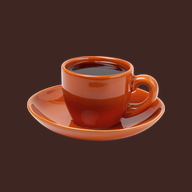
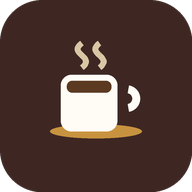
Add files via upload

diff --git a/index.html b/index.html
@@ -2,21 +2,24 @@
 <html lang="es">
 <head>
 <meta charset="UTF-8" />
-<meta name="viewport" content="width=device-width, initial-scale=1, maximum-scale=1, viewport-fit=cover" />
+<meta name="viewport" content="width=device-width, initial-scale=1, viewport-fit=cover" />
 <title>Control Cafetería</title>
+<meta name="description" content="Sistema de punto de venta para cafetería. Funciona sin internet en teléfono, tablet y computadora." />
 <meta name="theme-color" content="#3E2723" />
 <link rel="manifest" href="manifest.json" />
-<link rel="icon" href="icons/icon-192.png" />
-<link rel="apple-touch-icon" href="icons/icon-192.png" />
+<link rel="icon" type="image/png" sizes="192x192" href="icons/icon-192.png" />
+<link rel="apple-touch-icon" href="icons/apple-touch-icon.png" />
+<meta name="mobile-web-app-capable" content="yes" />
 <meta name="apple-mobile-web-app-capable" content="yes" />
 <meta name="apple-mobile-web-app-status-bar-style" content="black-translucent" />
+<meta name="apple-mobile-web-app-title" content="Cafetería" />
 <link rel="stylesheet" href="style.css" />
 </head>
 <body>
 
 <header class="topbar">
   <div class="marca">
-    <span class="marca-icono">☕</span>
+    <svg class="icono-marca" viewBox="0 0 24 24" fill="none" stroke="currentColor" stroke-width="2" stroke-linecap="round" stroke-linejoin="round" aria-hidden="true"><path d="M17 8h1a4 4 0 1 1 0 8h-1"/><path d="M3 8h14v9a4 4 0 0 1-4 4H7a4 4 0 0 1-4-4Z"/><line x1="6" y1="2" x2="6" y2="4"/><line x1="10" y1="2" x2="10" y2="4"/><line x1="14" y1="2" x2="14" y2="4"/></svg>
     <span class="marca-texto">Control Cafetería</span>
   </div>
   <div class="reloj" id="reloj"></div>
@@ -59,15 +62,24 @@
   <!-- ============ VENTA ============ -->
   <section class="vista vista-activa" id="vista-venta" data-vista="venta">
     <div class="selector-consumo">
-      <button class="chip chip-activo" data-tipo="local" id="btn-tipo-local">🍽 En el local</button>
-      <button class="chip" data-tipo="llevar" id="btn-tipo-llevar">🥡 Para llevar</button>
+      <button class="chip chip-activo" data-tipo="local" id="btn-tipo-local">
+        <svg class="icono-chip" viewBox="0 0 24 24" fill="none" stroke="currentColor" stroke-width="2" stroke-linecap="round" stroke-linejoin="round" aria-hidden="true"><path d="M3 2v7c0 1.1.9 2 2 2h4a2 2 0 0 0 2-2V2"/><path d="M7 2v20"/><path d="M21 15V2a5 5 0 0 0-5 5v6c0 1.1.9 2 2 2h3Zm0 0v7"/></svg>
+        En el local
+      </button>
+      <button class="chip" data-tipo="llevar" id="btn-tipo-llevar">
+        <svg class="icono-chip" viewBox="0 0 24 24" fill="none" stroke="currentColor" stroke-width="2" stroke-linecap="round" stroke-linejoin="round" aria-hidden="true"><path d="M6 7h12l1.5 13.5a1 1 0 0 1-1 1.1H5.5a1 1 0 0 1-1-1.1Z"/><path d="M9 10V6a3 3 0 0 1 6 0v4"/></svg>
+        Para llevar
+      </button>
     </div>
 
     <div class="grid-productos" id="grid-productos"></div>
 
     <div class="panel-carrito" id="panel-carrito">
       <button class="carrito-tab" id="btn-toggle-carrito">
-        <span>🧾 Carrito</span>
+        <span class="carrito-tab-titulo">
+          <svg class="icono-chip" viewBox="0 0 24 24" fill="none" stroke="currentColor" stroke-width="2" stroke-linecap="round" stroke-linejoin="round" aria-hidden="true"><path d="M5 3h14v18l-2.3-1.5L14.4 21l-2.4-1.5L9.6 21l-2.3-1.5L5 21Z"/><path d="M9 8h6M9 12h6"/></svg>
+          Carrito
+        </span>
         <span id="carrito-resumen-mini">0 items · $0.00</span>
       </button>
       <div class="carrito-contenido" id="carrito-contenido">
@@ -143,7 +155,10 @@
     <h2 class="subtitulo-vista">Resumen por producto</h2>
     <div id="cierre-lista-productos" class="lista-reporte"></div>
 
-    <button class="btn btn-cobrar btn-ancho" id="btn-cerrar-caja">🔒 CERRAR CAJA</button>
+    <button class="btn btn-cobrar btn-ancho" id="btn-cerrar-caja">
+      <svg class="icono-btn" viewBox="0 0 24 24" fill="none" stroke="currentColor" stroke-width="2" stroke-linecap="round" stroke-linejoin="round" aria-hidden="true"><rect x="5" y="10.5" width="14" height="10" rx="2"/><path d="M8 10.5V8a4 4 0 0 1 8 0v2.5"/></svg>
+      CERRAR CAJA
+    </button>
   </section>
 
   <!-- ============ CONFIGURACIÓN ============ -->
@@ -169,11 +184,20 @@
 
       <h2 class="subtitulo-vista">Respaldo de información</h2>
       <div class="fila-config">
-        <button class="btn btn-secundario" id="btn-exportar-json">💾 Exportar todo (JSON)</button>
-        <button class="btn btn-secundario" id="btn-exportar-csv">📄 Exportar ventas (CSV)</button>
+        <button class="btn btn-secundario" id="btn-exportar-json">
+          <svg class="icono-btn" viewBox="0 0 24 24" fill="none" stroke="currentColor" stroke-width="2" stroke-linecap="round" stroke-linejoin="round" aria-hidden="true"><path d="M12 3v12M7.5 10.5 12 15l4.5-4.5"/><path d="M4 17v3a1 1 0 0 0 1 1h14a1 1 0 0 0 1-1v-3"/></svg>
+          Exportar todo (JSON)
+        </button>
+        <button class="btn btn-secundario" id="btn-exportar-csv">
+          <svg class="icono-btn" viewBox="0 0 24 24" fill="none" stroke="currentColor" stroke-width="2" stroke-linecap="round" stroke-linejoin="round" aria-hidden="true"><path d="M14 2.5H6.5a2 2 0 0 0-2 2v15a2 2 0 0 0 2 2h11a2 2 0 0 0 2-2V8Z"/><path d="M14 2.5V8h5.5"/><path d="M8.5 12.5h7M8.5 16h7"/></svg>
+          Exportar ventas (CSV)
+        </button>
       </div>
       <div class="fila-config">
-        <label for="input-importar" class="btn btn-secundario">📥 Importar respaldo (JSON)</label>
+        <label for="input-importar" class="btn btn-secundario">
+          <svg class="icono-btn" viewBox="0 0 24 24" fill="none" stroke="currentColor" stroke-width="2" stroke-linecap="round" stroke-linejoin="round" aria-hidden="true"><path d="M12 15V3M7.5 7.5 12 3l4.5 4.5"/><path d="M4 17v3a1 1 0 0 0 1 1h14a1 1 0 0 0 1-1v-3"/></svg>
+          Importar respaldo (JSON)
+        </label>
         <input type="file" id="input-importar" accept="application/json" class="oculto" />
       </div>
       <p class="texto-ayuda">Importar reemplaza toda la información actual por la del archivo. Úsalo con cuidado.</p>
@@ -186,21 +210,26 @@
 
 </main>
 
-<nav class="tabbar" id="tabbar">
+<nav class="tabbar" id="tabbar" aria-label="Navegación principal">
   <button class="tab-item" data-vista="inicio">
-    <span class="tab-icono">🏠</span><span>Inicio</span>
+    <svg class="icono-tab" viewBox="0 0 24 24" fill="none" stroke="currentColor" stroke-width="2" stroke-linecap="round" stroke-linejoin="round" aria-hidden="true"><path d="M3 10.5 12 3l9 7.5"/><path d="M5 9.5V21h14V9.5"/><path d="M9 21v-6h6v6"/></svg>
+    <span>Inicio</span>
   </button>
   <button class="tab-item tab-activa" data-vista="venta">
-    <span class="tab-icono">🛒</span><span>Venta</span>
+    <svg class="icono-tab" viewBox="0 0 24 24" fill="none" stroke="currentColor" stroke-width="2" stroke-linecap="round" stroke-linejoin="round" aria-hidden="true"><circle cx="9" cy="20" r="1.6"/><circle cx="17" cy="20" r="1.6"/><path d="M3 4h2l2.4 11.2a1.5 1.5 0 0 0 1.5 1.3H17a1.5 1.5 0 0 0 1.5-1.2L20 8H6"/></svg>
+    <span>Venta</span>
   </button>
   <button class="tab-item" data-vista="historial">
-    <span class="tab-icono">📋</span><span>Historial</span>
+    <svg class="icono-tab" viewBox="0 0 24 24" fill="none" stroke="currentColor" stroke-width="2" stroke-linecap="round" stroke-linejoin="round" aria-hidden="true"><rect x="6" y="4.5" width="12" height="17" rx="2"/><path d="M9 4.5a2.5 2.5 0 0 1 6 0"/><path d="M9 11h6M9 15h4"/></svg>
+    <span>Historial</span>
   </button>
   <button class="tab-item" data-vista="cierre">
-    <span class="tab-icono">🔒</span><span>Caja</span>
+    <svg class="icono-tab" viewBox="0 0 24 24" fill="none" stroke="currentColor" stroke-width="2" stroke-linecap="round" stroke-linejoin="round" aria-hidden="true"><rect x="5" y="10.5" width="14" height="10" rx="2"/><path d="M8 10.5V8a4 4 0 0 1 8 0v2.5"/></svg>
+    <span>Caja</span>
   </button>
   <button class="tab-item" data-vista="config">
-    <span class="tab-icono">⚙</span><span>Config</span>
+    <svg class="icono-tab" viewBox="0 0 24 24" fill="none" stroke="currentColor" stroke-width="2" stroke-linecap="round" stroke-linejoin="round" aria-hidden="true"><circle cx="12" cy="12" r="3.2"/><path d="M19.4 15a1.7 1.7 0 0 0 .34 1.87l.06.06a2 2 0 1 1-2.83 2.83l-.06-.06a1.7 1.7 0 0 0-1.87-.34 1.7 1.7 0 0 0-1 1.55V21a2 2 0 1 1-4 0v-.09a1.7 1.7 0 0 0-1-1.55 1.7 1.7 0 0 0-1.87.34l-.06.06a2 2 0 1 1-2.83-2.83l.06-.06A1.7 1.7 0 0 0 4.6 15a1.7 1.7 0 0 0-1.55-1H3a2 2 0 1 1 0-4h.09a1.7 1.7 0 0 0 1.55-1 1.7 1.7 0 0 0-.34-1.87l-.06-.06a2 2 0 1 1 2.83-2.83l.06.06A1.7 1.7 0 0 0 9 4.6a1.7 1.7 0 0 0 1-1.55V3a2 2 0 1 1 4 0v.09a1.7 1.7 0 0 0 1 1.55 1.7 1.7 0 0 0 1.87-.34l.06-.06a2 2 0 1 1 2.83 2.83l-.06.06A1.7 1.7 0 0 0 19.4 9c.24.6.87 1 1.51 1H21a2 2 0 1 1 0 4h-.09a1.7 1.7 0 0 0-1.51 1Z"/></svg>
+    <span>Config</span>
   </button>
 </nav>
 
@@ -213,9 +242,18 @@
 
     <p class="modal-etiqueta">Método de pago</p>
     <div class="selector-consumo">
-      <button class="chip chip-activo" data-metodo="Efectivo">💵 Efectivo</button>
-      <button class="chip" data-metodo="Transferencia">📲 Transferencia</button>
-      <button class="chip" data-metodo="Otro">🔖 Otro</button>
+      <button class="chip chip-activo" data-metodo="Efectivo">
+        <svg class="icono-chip" viewBox="0 0 24 24" fill="none" stroke="currentColor" stroke-width="2" stroke-linecap="round" stroke-linejoin="round" aria-hidden="true"><rect x="2.5" y="6.5" width="19" height="11" rx="2"/><circle cx="12" cy="12" r="2.6"/><path d="M6.5 12h.01M17.5 12h.01"/></svg>
+        Efectivo
+      </button>
+      <button class="chip" data-metodo="Transferencia">
+        <svg class="icono-chip" viewBox="0 0 24 24" fill="none" stroke="currentColor" stroke-width="2" stroke-linecap="round" stroke-linejoin="round" aria-hidden="true"><rect x="7" y="2.5" width="10" height="19" rx="2"/><path d="M12 16V9M9.5 11.5 12 9l2.5 2.5"/></svg>
+        Transferencia
+      </button>
+      <button class="chip" data-metodo="Otro">
+        <svg class="icono-chip" viewBox="0 0 24 24" fill="none" stroke="currentColor" stroke-width="2" stroke-linecap="round" stroke-linejoin="round" aria-hidden="true"><path d="M12.6 3.6 20.4 11.4a2 2 0 0 1 0 2.8l-6.2 6.2a2 2 0 0 1-2.8 0L3.6 12.6A2 2 0 0 1 3 11.2V5a2 2 0 0 1 2-2h6.2a2 2 0 0 1 1.4.6Z"/><circle cx="7.5" cy="7.5" r="1"/></svg>
+        Otro
+      </button>
     </div>
 
     <div class="modal-acciones">

diff --git a/style.css b/style.css
@@ -296,6 +296,80 @@ button, input { font-family: inherit; }
 
 .oculto { display: none !important; }
 
-@media (min-width: 480px) {
-  .grid-productos { grid-template-columns: repeat(3, 1fr); }
+
+
+/* ==========================================================
+   V1.1 — Íconos SVG y diseño adaptable (teléfono, tablet, PC)
+   ========================================================== */
+
+/* ---------- ÍCONOS SVG ---------- */
+.icono-marca { width: 24px; height: 24px; color: var(--caramelo); flex: none; }
+.icono-tab   { width: 22px; height: 22px; }
+.icono-chip  { width: 17px; height: 17px; flex: none; }
+.icono-btn   { width: 17px; height: 17px; flex: none; }
+
+.chip { display: inline-flex; align-items: center; gap: 7px; }
+.carrito-tab-titulo { display: inline-flex; align-items: center; gap: 8px; }
+.btn { display: inline-flex; align-items: center; justify-content: center; gap: 8px; }
+label.btn { cursor: pointer; }
+
+/* ---------- ACCESIBILIDAD Y ESCRITORIO (mouse/teclado) ---------- */
+.tab-item, .chip, .btn, .carrito-tab, .btn-cantidad, .tab-sec, .tarjeta-producto { cursor: pointer; }
+
+button:focus-visible,
+.btn:focus-visible,
+input:focus-visible {
+  outline: 3px solid rgba(200, 147, 63, 0.65);
+  outline-offset: 2px;
+}
+
+@media (hover: hover) and (pointer: fine) {
+  .chip:hover { border-color: var(--cafe-medio); }
+  .tab-item:hover { color: var(--rust); background: #F7EEDD; }
+  .btn-secundario:hover { border-color: var(--cafe-medio); }
+  .btn-cobrar:hover { background: var(--rust-oscuro); }
+  .tarjeta-producto:hover {
+    transform: translateY(-2px);
+    box-shadow: 0 6px 16px rgba(43, 27, 18, 0.14);
+    border-color: var(--caramelo);
+  }
+  .tarjeta-producto { transition: transform 0.15s ease, box-shadow 0.15s ease, border-color 0.15s ease; }
+  .tab-sec:hover { background: #EFE3CC; color: var(--cafe-medio); }
+}
+
+/* ---------- TABLET (desde 600 px) ---------- */
+@media (min-width: 600px) {
+  #vistas { max-width: 860px; padding: 20px 22px calc(110px + env(safe-area-inset-bottom, 0px)); }
+  .grid-productos { grid-template-columns: repeat(3, 1fr); gap: 14px; }
+  .panel-carrito { max-width: 860px; padding: 0; }
+  .tabbar { justify-content: center; }
+  .tab-item { flex: 0 1 150px; font-size: 0.74rem; }
+  .titulo-vista { font-size: 1.55rem; }
+}
+
+/* ---------- COMPUTADORA (desde 1024 px) ---------- */
+@media (min-width: 1024px) {
+  #vistas { max-width: 1080px; }
+  .grid-productos { grid-template-columns: repeat(4, 1fr); gap: 16px; }
+  .tarjetas-dashboard { grid-template-columns: repeat(4, 1fr); }
+  .tarjeta-ancha { grid-column: span 2; }
+  .tarjeta-producto { min-height: 130px; padding: 20px 12px; }
+  .producto-icono { width: 54px; height: 54px; }
+  .producto-nombre { font-size: 1rem; }
+  .producto-precio { font-size: 0.92rem; }
+  .chip { font-size: 0.94rem; padding: 10px 16px; }
+  .btn { font-size: 1rem; }
+  .tarjeta-valor { font-size: 1.5rem; }
+  .panel-carrito { max-width: 1080px; }
+
+  /* El modal se ve centrado, como un diálogo clásico de escritorio */
+  .modal { align-items: center; }
+  .modal-caja { border-radius: 20px; }
+}
+
+/* ---------- PANTALLAS GRANDES (desde 1400 px) ---------- */
+@media (min-width: 1400px) {
+  #vistas { max-width: 1240px; }
+  .grid-productos { grid-template-columns: repeat(5, 1fr); }
+  .panel-carrito { max-width: 1240px; }
 }

diff --git a/service-worker.js b/service-worker.js
@@ -3,7 +3,7 @@
 // Los DATOS (ventas, productos, cierres) NO se guardan aquí: viven en IndexedDB,
 // dentro del navegador, así que ya funcionan sin conexión por sí solos.
 
-const CACHE_NAME = "control-cafeteria-v1";
+const CACHE_NAME = "control-cafeteria-v2";
 const ARCHIVOS = [
   "./",
   "./index.html",
@@ -11,7 +11,9 @@ const ARCHIVOS = [
   "./app.js",
   "./manifest.json",
   "./icons/icon-192.png",
-  "./icons/icon-512.png"
+  "./icons/icon-512.png",
+  "./icons/icon-maskable-512.png",
+  "./icons/apple-touch-icon.png"
 ];
 
 self.addEventListener("install", (event) => {

diff --git a/app.js b/app.js
@@ -4,7 +4,7 @@
 // No hay servidor: la app funciona sola, incluso sin internet.
 // ============================================================
 
-const VERSION_APP = "V1.0";
+const VERSION_APP = "V1.1";
 
 const ICONOS = {
   bolon: `<svg viewBox="0 0 64 64" xmlns="http://www.w3.org/2000/svg">

diff --git a/README.md b/README.md
@@ -1,0 +1,64 @@
+# ☕ Control Cafetería
+
+Sistema de punto de venta (POS) sencillo para cafetería. Es una **aplicación web progresiva (PWA)** que funciona sin internet y se puede instalar en teléfonos, tablets y computadoras como si fuera una app nativa.
+
+Toda la información (ventas, productos, precios y cierres de caja) se guarda en el navegador mediante **IndexedDB**: no necesita servidor ni base de datos externa.
+
+## Características
+
+- 🛒 **Punto de venta**: productos con ícono y precio, carrito, cobro con método de pago (efectivo, transferencia, otro).
+- 🍽🥡 **Precios dobles**: «en el local» y «para llevar» por producto.
+- 📊 **Panel de inicio**: ventas del día, semana y mes, y producto más vendido.
+- 📋 **Historial** con filtros (hoy, ayer, semana, mes, rango personalizado) y lista de cierres de caja.
+- 🔒 **Cierre de caja** con resumen por método de pago y por producto.
+- ⚙ **Configuración protegida por PIN** (inicial: `1234`): precios, cambio de PIN y respaldos.
+- 💾 **Respaldo y restauración**: exporta todo en JSON, ventas en CSV, e importa respaldos.
+- 📴 **Funciona sin internet** gracias al service worker (caché local).
+- 📱💻 **Diseño adaptable**: teléfono, tablet y computadora de escritorio.
+
+## Cómo publicarla en GitHub Pages (gratis)
+
+1. Crea un repositorio en GitHub (por ejemplo `control-cafeteria`).
+2. Sube todos los archivos manteniendo esta estructura:
+
+   ```
+   index.html
+   style.css
+   app.js
+   manifest.json
+   service-worker.js
+   icons/
+     icon-192.png
+     icon-512.png
+     icon-maskable-512.png
+     apple-touch-icon.png
+   ```
+
+3. En el repositorio ve a **Settings → Pages**.
+4. En **Build and deployment** elige **Deploy from a branch**, rama `main`, carpeta `/ (root)` y guarda.
+5. En 1–2 minutos la app queda disponible en:
+   `https://TU-USUARIO.github.io/control-cafeteria/`
+
+## Instalarla como app
+
+- **Android (Chrome)**: abre la URL → menú ⋮ → *Instalar aplicación* / *Añadir a pantalla de inicio*.
+- **iPhone/iPad (Safari)**: abre la URL → botón Compartir → *Añadir a pantalla de inicio*.
+- **PC (Chrome/Edge)**: en la barra de direcciones aparece el botón *Instalar*.
+
+## Uso rápido
+
+1. En la pestaña **Venta** elige *En el local* o *Para llevar* y toca los productos.
+2. Abre el **Carrito**, ajusta cantidades y pulsa **COBRAR**.
+3. Elige el método de pago y confirma.
+4. Al final del día usa **Caja → CERRAR CAJA**; el conteo se reinicia para el siguiente turno.
+5. Haz respaldos periódicos desde **Config** (PIN `1234` la primera vez).
+
+> ⚠ Los datos viven en el navegador del dispositivo. Si borras los datos del sitio o cambias de dispositivo, exporta antes un respaldo JSON e impórtalo en el nuevo equipo.
+
+## Tecnologías
+
+HTML + CSS + JavaScript puro, sin frameworks. IndexedDB para datos, service worker para modo offline y `manifest.json` para instalación PWA.
+
+## Licencia
+
+MIT — ver [LICENSE](LICENSE).
